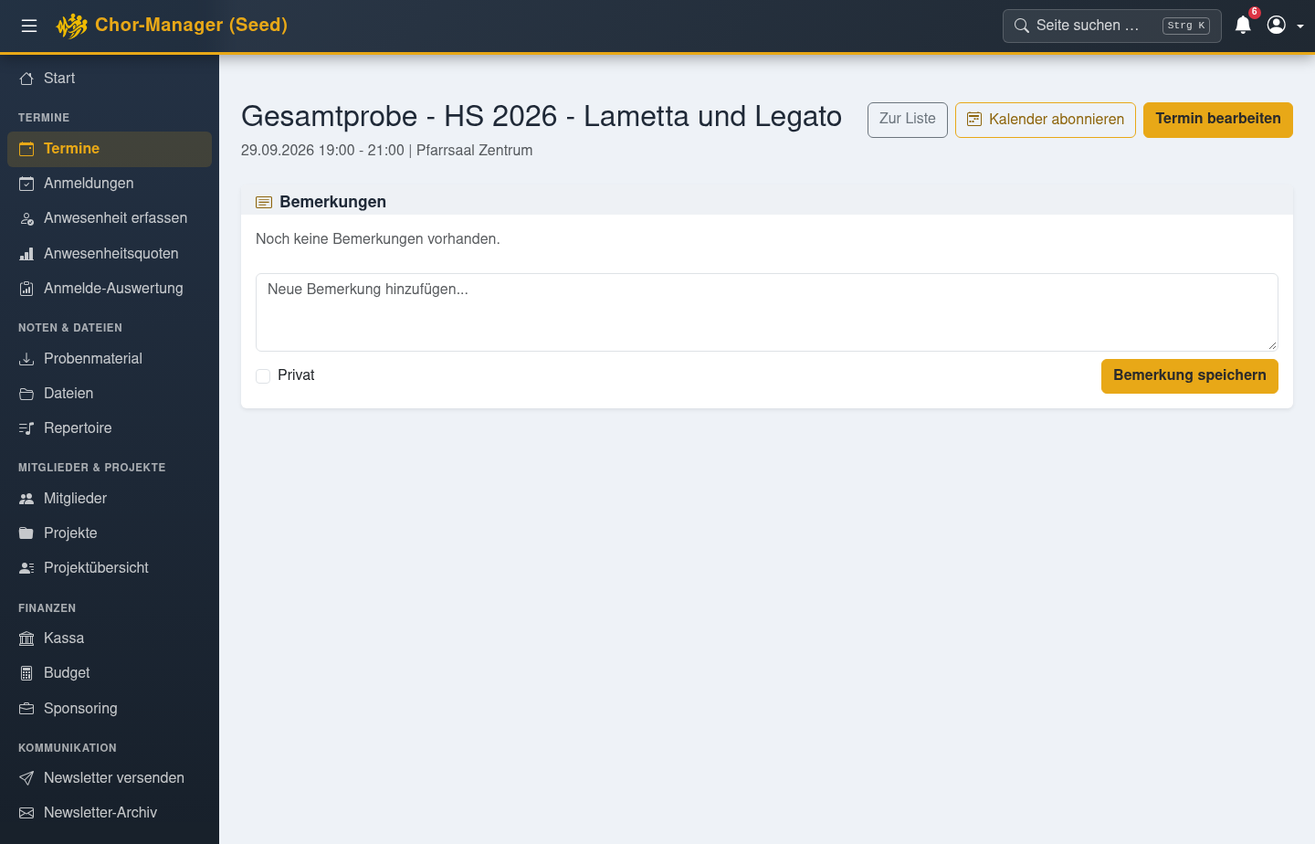
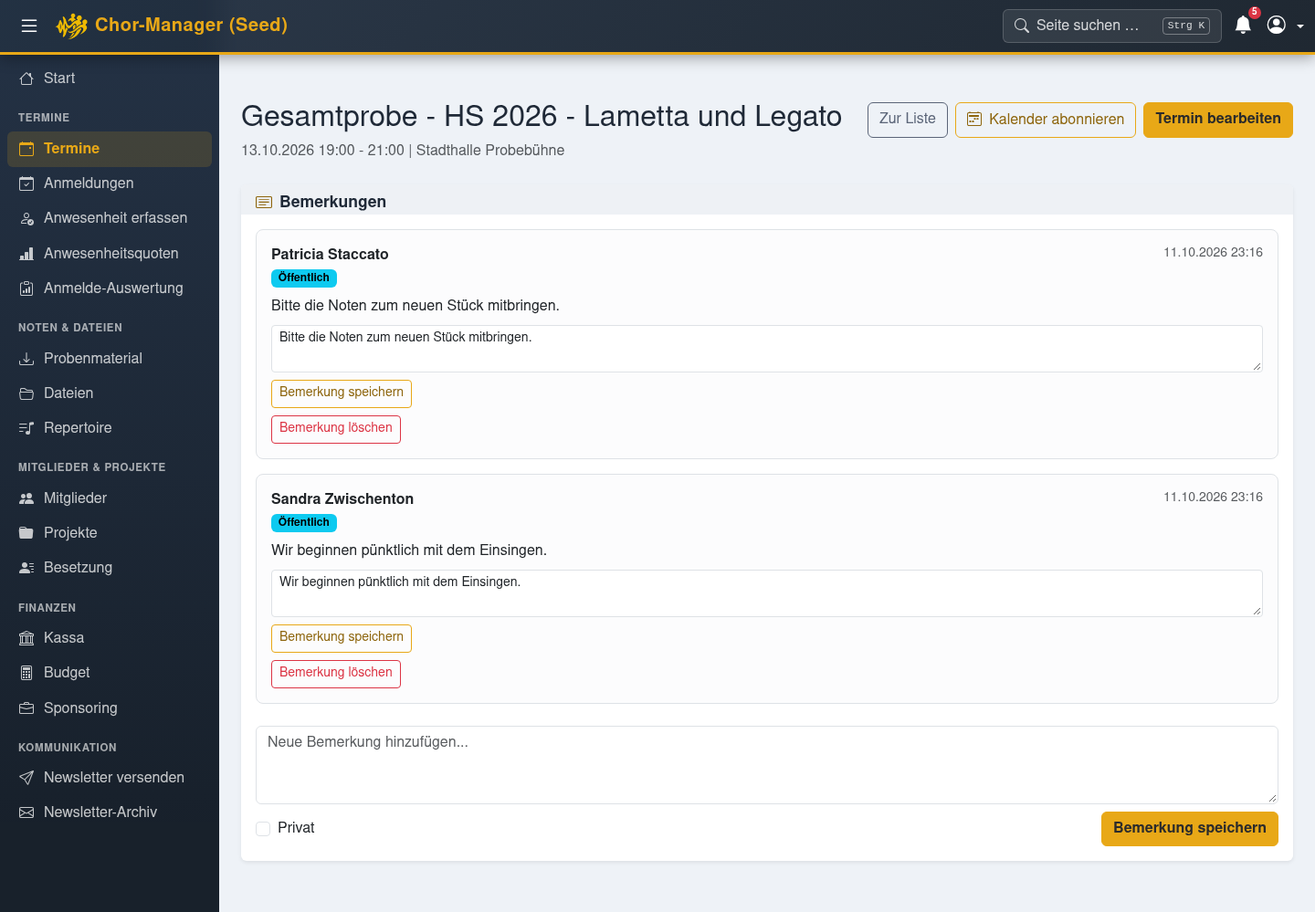
docs(help): Termine, Auswertungen und Newsletter-Archiv auf neuem Stand
Die letzten vier Umbauten (Terminplan, Anmeldeliste, Anwesenheitsquoten,
Newsletter-Archiv) hatten Texte und Bilder der Hilfe zurückgelassen: Die
Hilfe beschrieb den Knopf "Bemerkungen (x/y)", eine Filterkarte und
"Über Vorschau liest du ihn"; alle 28 Bilder zeigten die alte Oberfläche.

Texte
-----
- events.md: neuer Abschnitt zu den Ansichten Plan, Kalender und Liste
  (Liste nur mit "Termine verwalten", Ansicht pro Gerät gemerkt), Filter
  in der Werkzeugleiste mit "Vergangene (bis 1 Jahr)", Hervorhebung über
  die Terminart, Abzeichen "2 Bemerkungen" (öffentliche plus eigene
  private), Menü "…" statt Dropdown, "Speichern und benachrichtigen" und
  Anmeldeschluss erst nach "Anmeldung freischalten". Neues Bild 14-plan.
- events-event-types.md: drittes Feld "Termine dieser Art hervorheben"
  und der Stern "Hervorgehoben" an der Kachel.
- evaluations.md: Block "Nach Stimmgruppe" (gut ab 75 %, niedrig unter
  50 %, aus EvaluationController), warum oben 17 und in der Zeile 16 / 16
  stehen kann, Strich statt Quote ohne geltenden Termin.
- newsletter.md: Archiv in Monatsgruppen, Suche ab neun Newslettern,
  Lesefenster mit "Neuer"/"Älter" und Pfeiltasten. Neues Bild
  12-archive-reader.

Jede Aussage über Rechte und Bedingungen ist aus Controller und Template
abgeleitet (resolveViewMode, roles/index.twig, filter_form.twig,
archive.twig total > 8, QUOTA_LOW/QUOTA_GOOD).

Screenshot-Skripte
------------------
[…]

diff --git a/help/events/scripts/screenshot.js b/help/events/scripts/screenshot.js
@@ -31,6 +31,17 @@ async function shot(page, name, { fullPage = true } = {}) {
     console.log(`gespeichert: ${path.relative(process.cwd(), filePath)}`);
 }
 
+// Lange Listen: Kopf, Werkzeugleiste und einige Zeilen genügen, der Rest wäre nur Höhe.
+async function shotCapped(page, name, maxHeight = 1400) {
+    const fullHeight = await page.evaluate(() => Math.ceil(document.documentElement.scrollHeight));
+    const height = Math.min(fullHeight, maxHeight);
+    const filePath = path.join(IMAGES_DIR, `${name}.png`);
+    // clip wirkt ohne fullPage nur innerhalb des Sichtfensters; erst fullPage rendert die
+    // ganze Seite, die dann auf die gewünschte Höhe zugeschnitten wird.
+    await page.screenshot({ path: filePath, fullPage: true, clip: { x: 0, y: 0, width: VIEWPORT.width, height } });
+    console.log(`gespeichert: ${path.relative(process.cwd(), filePath)} (${VIEWPORT.width}x${height})`);
+}
+
 async function login(page) {
     await page.goto(`${BASE_URL}/login`, { waitUntil: 'networkidle' });
     await page.locator('#emailInput').fill(LOGIN_EMAIL);
@@ -78,7 +89,7 @@ async function main() {
         // 1. Terminliste
         await page.goto(`${BASE_URL}/events?view=list`, { waitUntil: 'networkidle' });
         await page.locator('#eventsTable').waitFor({ state: 'visible' });
-        await shot(page, '01-list');
+        await shotCapped(page, '01-list');
 
         // 2. Kalenderansicht
         await page.goto(`${BASE_URL}/events?view=calendar`, { waitUntil: 'networkidle' });
@@ -87,6 +98,11 @@ async function main() {
         await page.locator('#event-calendar .event-calendar-toolbar').waitFor({ state: 'visible' });
         await page.locator('#event-calendar [role="grid"]').waitFor({ state: 'visible' });
         await shot(page, '02-calendar');
+
+        // 2a. Terminplan: nächster Termin oben, darunter Monatsgruppen
+        await page.goto(`${BASE_URL}/events?view=plan`, { waitUntil: 'networkidle' });
+        await page.locator('[data-event-plan]').waitFor({ state: 'visible' });
+        await shotCapped(page, '14-plan');
 
         // 3. Modal: Neuen Termin anlegen (inkl. Wiederholung aufgeklappt)
         await page.goto(`${BASE_URL}/events?view=list`, { waitUntil: 'networkidle' });
@@ -109,15 +125,20 @@ async function main() {
         // 4. Termin bearbeiten (Serientermin, zeigt Serien-Checkbox)
         const seriesRow = page.locator('#eventsTable tbody tr').filter({ has: page.locator('i.bi-repeat') }).first();
         const editHref = await seriesRow.locator('a', { hasText: 'Termin bearbeiten' }).first();
-        await seriesRow.locator('button.dropdown-toggle').click();
+        await seriesRow.locator('button[data-bs-toggle="dropdown"]').click();
         await editHref.click();
         await page.waitForLoadState('networkidle');
         await page.locator('#update_series').waitFor({ state: 'visible' });
         await shot(page, '04-edit-event');
 
-        // 5. Termin-Detail mit Bemerkungen
+        // 5. Termin-Detail: bevorzugt ein Termin mit Bemerkungs-Abzeichen, sonst der erste.
+        // Der Seed hängt Bemerkungen nur an Termine, die älter als ein Jahr sind - die zeigt
+        // die Liste auch mit "Vergangene" nicht, dann bleibt es beim ersten Termin.
         await page.goto(`${BASE_URL}/events?view=list`, { waitUntil: 'networkidle' });
-        await page.locator('#eventsTable tbody tr').first().locator('a.btn-outline-secondary').first().click();
+        const rows = page.locator('#eventsTable tbody tr');
+        const rowsWithNotes = rows.filter({ has: page.locator('.event-note-badge') });
+        const detailRow = (await rowsWithNotes.count()) > 0 ? rowsWithNotes.first() : rows.first();
+        await detailRow.locator('a.event-title-link').click();
         await page.waitForLoadState('networkidle');
         await shot(page, '05-event-detail');
 
@@ -191,12 +212,17 @@ async function main() {
 
         // 9. Anmeldungen-Übersicht
         await page.goto(`${BASE_URL}/registrations`, { waitUntil: 'networkidle' });
-        await shot(page, '09-registrations-list');
+        await page.locator('[data-registration-card]').first().waitFor({ state: 'visible' });
+        await shotCapped(page, '09-registrations-list');
 
         // 10. Anmeldung-Detail (Vertretung/Proxy-Ansicht als Admin)
-        const detailLink = page.locator('.registration-card a.btn-outline-secondary', { hasText: 'Details' }).first();
-        await detailLink.click();
-        await page.waitForLoadState('networkidle');
+        // Ein noch offener Termin, damit die Detailseite das Antwortformular zeigt.
+        const registrationHref = await page.locator('[data-registration-card]')
+            .filter({ has: page.locator('form.registration-self-form') })
+            .first()
+            .locator('a.event-plan__title')
+            .getAttribute('href');
+        await page.goto(`${BASE_URL}${registrationHref}`, { waitUntil: 'networkidle' });
         await shot(page, '10-registration-detail');
 
         console.log('Fertig: alle Termine-Screenshots erstellt.');

diff --git a/help/newsletter/scripts/screenshot.js b/help/newsletter/scripts/screenshot.js
@@ -219,6 +219,19 @@ async function main() {
         await page.locator('#newsletterArchiveList').waitFor({ state: 'visible' });
         await shotCapped(page, '11-my-newsletters');
 
+        // 12. Lesedialog des Archivs: der zweite Newsletter, damit "Neuer" und "Älter"
+        // beide bedienbar sind. Der Inhalt kommt per fetch und steckt in einem eigenen
+        // Mail-Rahmen - deshalb zusätzlich auf dessen body warten.
+        await clickAndWaitForEvent(
+            page,
+            page.locator('[data-newsletter-open]').nth(1),
+            '#newsletterReaderModal',
+            'shown.bs.modal'
+        );
+        await page.locator('#newsletterReaderModal .newsletter-preview-frame').waitFor({ state: 'visible' });
+        await page.frameLocator('#newsletterReaderModal .newsletter-preview-frame').locator('body').waitFor({ state: 'visible' });
+        await shotViewport(page, '12-archive-reader');
+
         console.log('Fertig: alle Newsletter-Screenshots erstellt.');
     } finally {
         await browser.close();

diff --git a/help/evaluations/scripts/screenshot.js b/help/evaluations/scripts/screenshot.js
@@ -33,7 +33,9 @@ async function shotCapped(page, name, maxHeight = 1400) {
     const fullHeight = await page.evaluate(() => Math.ceil(document.documentElement.scrollHeight));
     const height = Math.min(fullHeight, maxHeight);
     const filePath = path.join(IMAGES_DIR, `${name}.png`);
-    await page.screenshot({ path: filePath, clip: { x: 0, y: 0, width: VIEWPORT.width, height } });
+    // clip wirkt ohne fullPage nur innerhalb des Sichtfensters; erst fullPage rendert die
+    // ganze Seite, die dann auf die gewünschte Höhe zugeschnitten wird.
+    await page.screenshot({ path: filePath, fullPage: true, clip: { x: 0, y: 0, width: VIEWPORT.width, height } });
     console.log(`gespeichert: ${path.relative(process.cwd(), filePath)} (${VIEWPORT.width}x${height})`);
 }
 

diff --git a/help/events/docs/events.md b/help/events/docs/events.md
@@ -1,26 +1,50 @@
 # Termine
 
-Im Bereich **Termine** planst du alle Proben, Auftritte, Sitzungen und sonstigen Ereignisse deines Chors. Du siehst Termine als Liste oder im Kalender, kannst wiederkehrende Serien anlegen, die Zielgruppe eines Termins einschränken und einen persönlichen Kalenderlink zum Abonnieren erzeugen.
+Im Bereich **Termine** planst du alle Proben, Auftritte, Sitzungen und sonstigen Ereignisse deines Chors. Du siehst Termine als Terminplan, im Kalender oder – mit Verwaltungsrecht – als Tabelle, kannst wiederkehrende Serien anlegen, die Zielgruppe eines Termins einschränken und einen persönlichen Kalenderlink zum Abonnieren erzeugen.
 
-> **Berechtigung:** Termine ansehen kann jedes eingeloggte Mitglied. Termine anlegen, bearbeiten oder löschen sowie Termin-Typen verwalten darf nur, wer das Recht **"Termine verwalten"** hat. Siehst du die entsprechenden Buttons nicht, frag den Administrator unter **Administration → Rollen & Rechte**.
+> **Berechtigung:** Termine ansehen kann jedes eingeloggte Mitglied. Termine anlegen, bearbeiten oder löschen, die Tabellenansicht **Liste** sowie Termin-Typen verwalten gibt es nur mit dem Recht **"Termine verwalten"**. Siehst du die entsprechenden Buttons nicht, frag den Administrator unter **Administration → Rollen & Rechte**.
 
-## 1. Terminliste
+## 1. Ansichten
 
-Unter **Termine → Termine** siehst du standardmäßig die Liste aller Termine. Über die Filter oben kannst du nach Projekt und Termin-Typ einschränken und vergangene Termine ein- oder ausblenden.
+Unter **Termine → Termine** wählst du oben rechts die Ansicht:
 
-![Terminliste mit Filtern](images/events/01-list.png)
+- **Plan** – der Terminplan, gedacht zum Lesen. Ohne das Recht "Termine verwalten" startest du hier.
+- **Kalender** – Monats-, Wochen- oder Terminübersicht.
+- **Liste** – die Tabelle mit Suche, Sortierung und den Verwaltungsaktionen. Sie gibt es nur mit dem Recht "Termine verwalten", und für diese Personen ist sie auch der Einstieg.
 
-Jede Zeile zeigt Datum/Zeit, Titel, ob Bemerkungen vorhanden sind, Ort, Typ und Zielgruppe. Ein Wiederholungssymbol neben der Uhrzeit kennzeichnet Serientermine. Über den Button **Bemerkungen** gelangst du zur Detailseite, über **Anwesenheit** (falls für dich sichtbar) zur Anwesenheitsliste dieses Termins.
+Die zuletzt gewählte Ansicht merkt sich die Seite pro Gerät: Am Handy kann der Plan offen sein, am Rechner die Liste.
 
-## 2. Kalenderansicht
+In allen Ansichten schränkst du die Termine nach **Projekt** und **Typ** ein; mit **Vergangene (bis 1 Jahr)** blendest du zusätzlich die Termine des letzten Jahres ein. Ohne diesen Haken zeigt die Seite die kommenden Termine und die der letzten zwei Wochen. Zurück zu allen Terminen geht es über **Alle Projekte** und **Alle Typen**.
 
-Über den Umschalter **Liste / Kalender** oben rechts wechselst du zur Monats-, Wochen- oder Terminübersichtsansicht.
+Termine einer Terminart, die als hervorgehoben markiert ist (z. B. Auftritte, siehe [Termin-Typen](events-event-types)), tragen in Plan und Liste einen farbigen Balken am Rand und heben sich so von den regelmäßigen Proben ab.
+
+## 2. Terminplan
+
+Der Plan zeigt ganz oben den nächsten Termin mit einer relativen Angabe wie „morgen“ oder „in 3 Tagen“. Darunter folgen die Termine nach Monaten gegliedert, jeweils mit Wochentag, Uhrzeit, Ort und Terminart.
+
+![Terminplan mit dem nächsten Termin und Monatsgruppen](images/events/14-plan.png)
+
+Ein Klick auf einen Termintitel öffnet die Detailseite. Ein Wiederholungssymbol kennzeichnet Serientermine.
+
+## 3. Terminliste
+
+Die Liste zeigt dieselben Termine als Tabelle. Projekt, Typ und „Vergangene“ stehen dort in der Werkzeugleiste über der Tabelle, neben Suche, Sortierung und Seitengröße.
+
+![Terminliste mit Werkzeugleiste](images/events/01-list.png)
+
+Jede Zeile zeigt Datum mit Wochentag und Uhrzeit, Titel, Ort, Typ und Zielgruppe. Für die nächsten Tage steht unter dem Datum zusätzlich „in 2 Tagen“ o. ä.; vergangene Termine erscheinen blasser. Der Titel führt zur Detailseite, **Anwesenheit** (falls für dich sichtbar) zur Anwesenheitsliste dieses Termins, und das Menü **…** am Zeilenende enthält die Verwaltungsaktionen.
+
+Hat ein Termin Bemerkungen, steht neben dem Titel ein Hinweis wie **2 Bemerkungen** – in Plan und Liste. Ein Klick darauf springt direkt zu den Bemerkungen auf der Detailseite. Gezählt werden die öffentlichen Bemerkungen und deine eigenen privaten.
+
+## 4. Kalenderansicht
+
+Über **Kalender** oben rechts wechselst du zur Monats-, Wochen- oder Terminübersichtsansicht.
 
 ![Kalenderansicht der Termine](images/events/02-calendar.png)
 
 Ein Klick auf einen Termin im Kalender öffnet dessen Detailseite. Mit dem Recht "Termine verwalten" öffnet ein Klick auf einen freien Tag direkt das Formular für einen neuen Termin an diesem Datum.
 
-## 3. Termin anlegen
+## 5. Termin anlegen
 
 Über **Termin erstellen** öffnest du das Formular für einen neuen Termin: Titel, Datum, Start-/Endzeit, Typ und optional ein Ort sind Pflicht bzw. gängige Angaben.
 
@@ -32,12 +56,13 @@ Zusätzlich kannst du festlegen:
 
 > **Hinweis:** Die Auswahl der Zielgruppe hat sich geändert. Eine Zielgruppe besteht jetzt aus Zeilen mit den Feldern Rolle, Stimmgruppe, Untergruppe, Projekt und Mitglied: Mehrere Werte in einem Feld genügen einzeln, mehrere Felder müssen alle zutreffen (z. B. „Stimmgruppe Sopran“ **und** „Projekt Frühjahrskonzert“), mehrere Zeilen gelten nebeneinander. Für alle Mitglieder gilt ein Termin nur noch mit dem Häkchen „Alle Mitglieder“; ein neuer Termin startet damit. Diese Seite wird noch überarbeitet.
 - **Anwesenheitsliste führen**: Aktiviert die Anwesenheitserfassung für diesen Termin (siehe [Anwesenheit erfassen](events-attendance)).
-- **Anmeldung freischalten** (wenn das Anmeldungsmodul aktiv ist): Mitglieder können zu-/absagen (siehe [Anmeldungen](events-registrations)). Der Anmeldeschluss ist frei wählbar, sonst gilt der Terminbeginn.
+- **Mitglieder benachrichtigen**: Schickt der Zielgruppe eine Mail über den neuen Termin. Solange der Haken gesetzt ist, heißt der Knopf **Speichern und benachrichtigen**; bei einer reinen Korrektur nimmst du den Haken besser weg.
+- **Anmeldung freischalten** (wenn das Anmeldungsmodul aktiv ist): Mitglieder können zu-/absagen (siehe [Anmeldungen](events-registrations)). Erst mit diesem Haken erscheint das Feld für den Anmeldeschluss; bleibt es leer, gilt der Terminbeginn.
 - **Termin wiederholen**: Legt eine Serie an – Intervall (täglich/wöchentlich/monatlich/jährlich), bei wöchentlicher Wiederholung zusätzlich die Wochentage, sowie ein Enddatum der Serie.
 
-## 4. Termin bearbeiten und löschen
+## 6. Termin bearbeiten und löschen
 
-Mit dem Recht "Termine verwalten" öffnest du über das Dropdown-Menü am Zeilenende einer Terminzeile **Termin bearbeiten** oder **Termin löschen**.
+Mit dem Recht "Termine verwalten" öffnest du in der Liste über das Menü **…** am Zeilenende **Termin bearbeiten** oder **Termin löschen**. Auf der Detailseite gibt es dafür den Knopf **Termin bearbeiten**.
 
 ![Formular zum Bearbeiten eines Termins](images/events/04-edit-event.png)
 
@@ -47,19 +72,19 @@ Darunter wählst du unter **"Was wird übertragen?"** die Bereiche aus, die tats
 
 Der Anmeldeschluss wird bei Serien nie als fester Zeitpunkt übernommen, sondern als **Vorlauf** zum jeweiligen Terminbeginn: Trägst du beim bearbeiteten Termin zwei Tage vorher ein, gilt bei jedem Folgetermin ebenfalls "zwei Tage vorher". Das gilt genauso beim Anlegen einer Serie.
 
-Über **Serie löschen** im Dropdown-Menü der Liste entfernst du alle Termine der Serie ab dem gewählten Termin.
+Über **Serie löschen** im Menü **…** der Liste entfernst du alle Termine der Serie ab dem gewählten Termin.
 
-## 5. Termin-Detail und Bemerkungen
+## 7. Termin-Detail und Bemerkungen
 
-Ein Klick auf einen Termin öffnet die Detailseite mit Datum, Ort und den Bemerkungen zu diesem Termin.
+Ein Klick auf einen Termintitel – in Plan, Liste oder Kalender – öffnet die Detailseite mit Datum, Ort und den Bemerkungen zu diesem Termin.
 
 ![Termin-Detailseite mit Bemerkungen](images/events/05-event-detail.png)
 
 Jedes Mitglied kann Bemerkungen hinzufügen und dabei wählen, ob sie **öffentlich** (für alle mit Zugriff auf den Termin sichtbar) oder **privat** (nur für dich selbst) sind. Eigene private Bemerkungen kannst du jederzeit bearbeiten oder löschen; öffentliche Bemerkungen können nur Personen mit dem Recht "Termine verwalten" moderieren.
 
-## 6. Kalender abonnieren
+## 8. Kalender abonnieren
 
-Über den Button **Kalender abonnieren** (auf der Terminliste und auf der Detailseite) erhältst du einen persönlichen, dauerhaften Link im iCal-Format.
+Über den Button **Kalender abonnieren** (auf der Terminseite und auf der Detailseite) erhältst du einen persönlichen, dauerhaften Link im iCal-Format.
 
 ![Modal mit dem persönlichen Kalenderabo-Link](images/events/06-calendar-subscription-modal.png)
 
@@ -79,9 +104,9 @@ Dazu wählst du die Darstellung: als **ganztägiger Termin** am Fälligkeitstag 
 
 Aufgenommen werden nur Aufgaben, die dir zugewiesen sind, ein Fälligkeitsdatum tragen und noch nicht abgeschlossen sind. Beide Links nutzen denselben Zugang: Erzeugst du eine neue Adresse, gilt die alte für Termine **und** Aufgaben nicht mehr.
 
-## 7. Termin-Typen
+## 9. Termin-Typen
 
-Jeder Termin trägt einen Typ – Probe, Auftritt, Sitzung –, und dieser Typ bestimmt die Farbe in Liste und Kalender sowie den Filter darüber. Gepflegt werden die Typen unter **Administration → Termin-Typen**; der Menüpunkt braucht dasselbe Recht wie das Anlegen von Terminen.
+Jeder Termin trägt einen Typ – Probe, Auftritt, Sitzung –, und dieser Typ bestimmt die Farbe in Plan, Liste und Kalender, den Filter darüber und ob seine Termine hervorgehoben werden. Gepflegt werden die Typen unter **Administration → Termin-Typen**; der Menüpunkt braucht dasselbe Recht wie das Anlegen von Terminen.
 
 ![Übersicht der Termin-Typen mit Farbcodierung](images/events/07-event-types.png)
 

diff --git a/help/evaluations/docs/evaluations.md b/help/evaluations/docs/evaluations.md
@@ -15,12 +15,24 @@ regelmäßig jemand?
 Klickpfad: **Termine → Anwesenheitsquoten**.
 
 Oben rechts wählst du das Projekt; die Seite lädt sofort neu. Ohne eigene Wahl steht dort
-das laufende Projekt, sonst das zuletzt passende. Direkt unter der Auswahl steht, wie
-viele Termine das Projekt hat — das ist die Bezugsgröße der ganzen Tabelle.
+das laufende Projekt, sonst das zuletzt passende. Unter dem Seitentitel steht, wie viele
+Pflichttermine im Projekt bisher stattgefunden haben, und der Stand der Auswertung. Über
+**Besetzung** wechselst du zur Besetzung desselben Projekts.
 
 ![Anwesenheitsquoten eines Projekts](images/evaluations/01-attendance-rates.png)
 
-## 2. Die Spalten lesen
+## 2. Nach Stimmgruppe
+
+Der Block **Nach Stimmgruppe** beantwortet die Frage vor dem Konzert: Steht die
+Besetzung, und wo fehlt regelmäßig jemand? Je Stimmgruppe siehst du den Durchschnitt der
+Quoten als Balken, die Zahl der Personen und – falls es welche gibt – wie viele davon
+unter 50 % liegen. Die Stimmgruppen stehen in Chor-Reihenfolge (Sopran, Alt, Tenor,
+Bass), Personen ohne Stimmgruppe zuletzt.
+
+Als gut gilt eine Quote ab 75 %, als niedrig unter 50 %. Die Quote ist farbig markiert und
+trägt zusätzlich ein Symbol: Häkchen für gut, Strich für mittel, Warndreieck für niedrig.
+
+## 3. Nach Person: die Spalten lesen
 
 | Spalte | Bedeutung |
 |---|---|
@@ -28,17 +40,25 @@ viele Termine das Projekt hat — das ist die Bezugsgröße der ganzen Tabelle.
 | **Entschuldigt** | abgemeldet mit Grund |
 | **Unentschuldigt** | gefehlt ohne Abmeldung |
 | **Erfasst** | für wie viele der Termine überhaupt eine Anwesenheit eingetragen wurde |
-| **Quote** | Anwesend geteilt durch **alle** stattgefundenen Pflichttermine |
+| **Quote** | Anwesend geteilt durch alle stattgefundenen Pflichttermine, **die für die Person gelten** |
+
+Die Zahl unter dem Seitentitel zählt alle Pflichttermine des Projekts, eine Zeile nur die,
+deren Zielgruppe die Person einschließt. Steht oben „17 Pflichttermine“ und in einer
+Zeile „16 / 16“, galt ein Termin – etwa eine Registerprobe – für diese Person nicht. Gilt
+für eine Person überhaupt kein Termin, steht statt einer Quote ein Strich; sie zählt dann
+auch nicht in den Durchschnitt ihrer Stimmgruppe.
 
 Der wichtige Punkt steckt in den letzten beiden Spalten: Die Quote rechnet gegen jeden
-stattgefundenen Pflichttermin, nicht nur gegen die erfassten. Eine nicht geführte
+geltenden, stattgefundenen Pflichttermin, nicht nur gegen die erfassten. Eine nicht geführte
 Anwesenheitsliste ist eine fehlende Angabe — sie darf niemanden als abwesend zählen, aber
 auch niemandes Quote schönrechnen. Wie viel tatsächlich erfasst wurde, steht deshalb
 daneben in **Erfasst** (z. B. "3 / 4"). Stehen dort durchgehend niedrige Werte, sagt die
 Quote wenig aus; dann fehlen Anwesenheitslisten, nicht Sängerinnen und Sänger.
 
 Über die Tabellenleiste durchsuchst und sortierst du die Liste, etwa nach Quote
-aufsteigend, um die Ausreißer nach oben zu holen.
+aufsteigend, um die Ausreißer nach oben zu holen. Die Spalte **Unentschuldigt** ist nur
+rot, wenn dort mehr als 0 steht. Am Handy erscheint jede Person als kompakte Karte mit
+Name und Quote oben und den vier Zählern darunter.
 
 ## Anleitungen
 
@@ -49,9 +69,11 @@ aufsteigend, um die Ausreißer nach oben zu holen.
 
 ## Häufige Stolperfallen
 
-- **Quote 0 % bei allen.** Für das Projekt wurde noch keine Anwesenheit erfasst, oder
-  seine Termine liegen alle in der Zukunft — die Auswertung zählt nur stattgefundene
-  Termine.
+- **Quote 0 % bei allen.** Für das Projekt wurde noch keine Anwesenheit erfasst. Liegen
+  dagegen alle Pflichttermine noch in der Zukunft, zeigt die Seite statt der Tabelle einen
+  Hinweis – die Auswertung zählt nur stattgefundene Termine.
+- **Oben eine andere Terminzahl als in der Zeile.** Kein Fehler: Die Zeile zählt nur die
+  Termine, die für die Person gelten (siehe oben).
 - **Jemand fehlt in der Liste.** Gezählt werden die Mitglieder des gewählten Projekts.
   Wer dem Projekt nicht zugeordnet ist, taucht auch nicht auf.
 - **Zahlen wirken zu gut.** Erst in die Spalte **Erfasst** schauen: Ohne geführte Listen

diff --git a/help/events/docs/events-event-types.md b/help/events/docs/events-event-types.md
@@ -2,7 +2,9 @@
 
 Termin-Typen sind die Kategorien, mit denen Termine eingeordnet werden — Probe,
 Auftritt, Registerprobe, Sitzung. Jeder Typ hat eine Farbe; sie färbt den Termin in
-Liste und Kalender ein und macht auf einen Blick sichtbar, worum es geht.
+Plan, Liste und Kalender ein und macht auf einen Blick sichtbar, worum es geht. Typen,
+deren Termine aus der Probenroutine herausstechen sollen, lassen sich zusätzlich
+hervorheben.
 
 > **Berechtigung:** Der Menüpunkt **Administration → Termin-Typen** erscheint nur, wenn deine
 > Rolle das Recht **"Termine verwalten"** hat. Wer Termine anlegen darf, darf also auch
@@ -16,17 +18,23 @@ Liste und Kalender ein und macht auf einen Blick sichtbar, worum es geht.
 Klickpfad: **Administration → Termin-Typen**.
 
 Die Seite zeigt alle Typen als farbige Kacheln, jede mit einem Stift zum Bearbeiten und
-einem Papierkorb zum Löschen.
+einem Papierkorb zum Löschen. Hervorgehobene Typen tragen neben dem Namen einen Stern
+und den Hinweis **Hervorgehoben**.
 
 ![Übersicht der Termin-Typen mit Farbcodierung](images/events/07-event-types.png)
 
 ## 2. Typ anlegen
 
-**Termin-Typ hinzufügen** öffnet das Formular. Es hat genau zwei Felder:
+**Termin-Typ hinzufügen** öffnet das Formular:
 
 - **Name** — Pflichtfeld, der Text, der später am Termin steht (z. B. "Generalprobe").
 - **Farbe** — eine Auswahl aus sieben festen Farben: Blau, Grau, Grün, Rot, Gelb,
   Hellblau und Schwarz.
+- **Termine dieser Art hervorheben** — für Konzerte, Auftritte und andere Termine, die
+  nicht zwischen den Proben untergehen sollen. Ihre Termine tragen im Terminplan, in der
+  Terminliste und bei den Anmeldungen einen farbigen Balken am Rand. Die Entscheidung
+  fällt einmal pro Typ und gilt für alle seine Termine; neue Typen starten ohne
+  Hervorhebung.
 
 ![Formular für einen neuen Termin-Typ](images/events/11-event-type-new-modal.png)
 
@@ -35,8 +43,8 @@ Anwendung und bleiben dadurch in hellen wie dunklen Ansichten lesbar.
 
 ## 3. Typ bearbeiten
 
-Der Stift öffnet dasselbe Formular mit den bestehenden Werten. Änderst du den Namen oder
-die Farbe, wirkt das sofort auf **alle** Termine dieses Typs — auch auf vergangene, denn
+Der Stift öffnet dasselbe Formular mit den bestehenden Werten. Änderst du den Namen, die
+Farbe oder die Hervorhebung, wirkt das sofort auf **alle** Termine dieses Typs — auch auf vergangene, denn
 Termine speichern den Typ als Verweis, nicht als Kopie.
 
 ![Formular zum Bearbeiten eines Termin-Typs](images/events/12-event-type-edit-modal.png)

diff --git a/help/newsletter/docs/newsletter.md b/help/newsletter/docs/newsletter.md
@@ -40,9 +40,15 @@ Versendete Newsletter lassen sich nicht mehr bearbeiten oder löschen – als Ak
 
 Unter **Kommunikation → Newsletter-Archiv** findest du alle Newsletter, die an dich versendet wurden. Dieser Menüpunkt ist für alle angemeldeten Personen sichtbar, sobald das Newsletter-Modul aktiviert ist – dafür brauchst du kein besonderes Recht.
 
-![Meine Newsletter](images/newsletter/11-my-newsletters.png)
+![Newsletter-Archiv nach Monaten gegliedert](images/newsletter/11-my-newsletters.png)
 
-Das Archiv ist an deine Person gebunden, nicht an deine aktuelle Projektmitgliedschaft: Ein Newsletter bleibt dir erhalten, auch wenn du das Projekt später verlässt. Über **Vorschau** liest du ihn jederzeit erneut, ohne die E-Mail suchen zu müssen.
+Die Newsletter stehen nach Monaten gegliedert, die neuesten zuerst. Jede Zeile nennt den Betreff, wann und von wem er gesendet wurde, und – falls zugeordnet – das Projekt; bei den letzten Tagen steht zusätzlich „heute“, „gestern“ oder „vor 3 Tagen“. Ab neun Newslettern erscheint oben ein Suchfeld, das Betreff, Projekt und Absender durchsucht.
+
+Ein Klick auf eine Zeile öffnet den Newsletter in einem Lesefenster: oben Betreff und Versanddatum, darunter die Mail selbst und ihre Anhänge. Mit **Neuer** und **Älter** – oder den Pfeiltasten – blätterst du zum nächsten Newsletter, ohne das Fenster zu schließen; „2 von 19“ zeigt, wo du gerade bist. Hast du gesucht, blätterst du nur durch die Treffer.
+
+![Lesefenster mit Blätterknöpfen](images/newsletter/12-archive-reader.png)
+
+Das Archiv ist an deine Person gebunden, nicht an deine aktuelle Projektmitgliedschaft: Ein Newsletter bleibt dir erhalten, auch wenn du das Projekt später verlässt, und du liest ihn jederzeit erneut, ohne die E-Mail suchen zu müssen.
 
 ## Anleitungen
 

diff --git a/.claude/skills/create-help-topic/SKILL.md b/.claude/skills/create-help-topic/SKILL.md
@@ -243,7 +243,9 @@ async function shotCapped(page, name, maxHeight = 1400) {
     const fullHeight = await page.evaluate(() => Math.ceil(document.documentElement.scrollHeight));
     const height = Math.min(fullHeight, maxHeight);
     const filePath = path.join(IMAGES_DIR, `${name}.png`);
-    await page.screenshot({ path: filePath, clip: { x: 0, y: 0, width: VIEWPORT.width, height } });
+    // clip wirkt ohne fullPage nur innerhalb des Sichtfensters (das Bild bliebe 900px hoch);
+    // erst fullPage rendert die ganze Seite, die dann zugeschnitten wird.
+    await page.screenshot({ path: filePath, fullPage: true, clip: { x: 0, y: 0, width: VIEWPORT.width, height } });
     console.log(`gespeichert: ${path.relative(process.cwd(), filePath)} (${VIEWPORT.width}x${height})`);
 }
 ```
